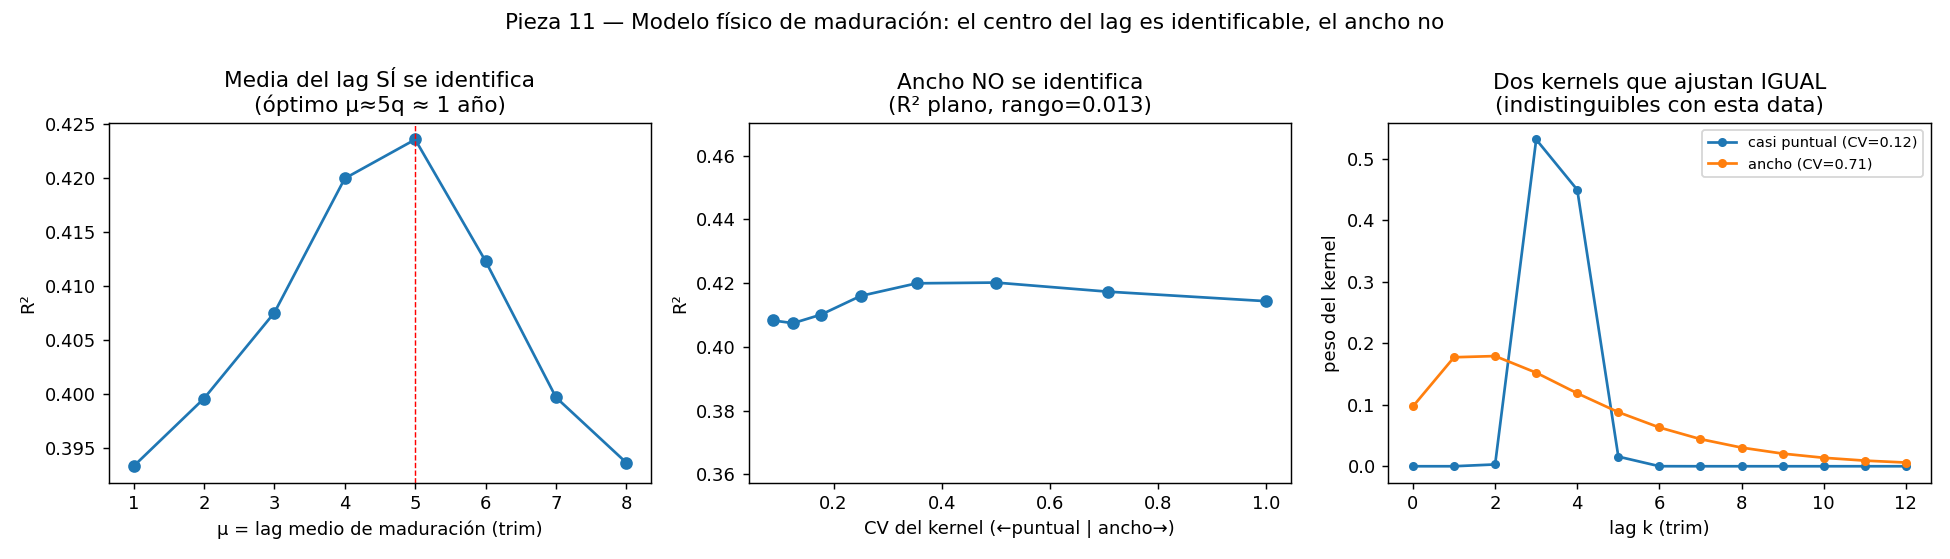
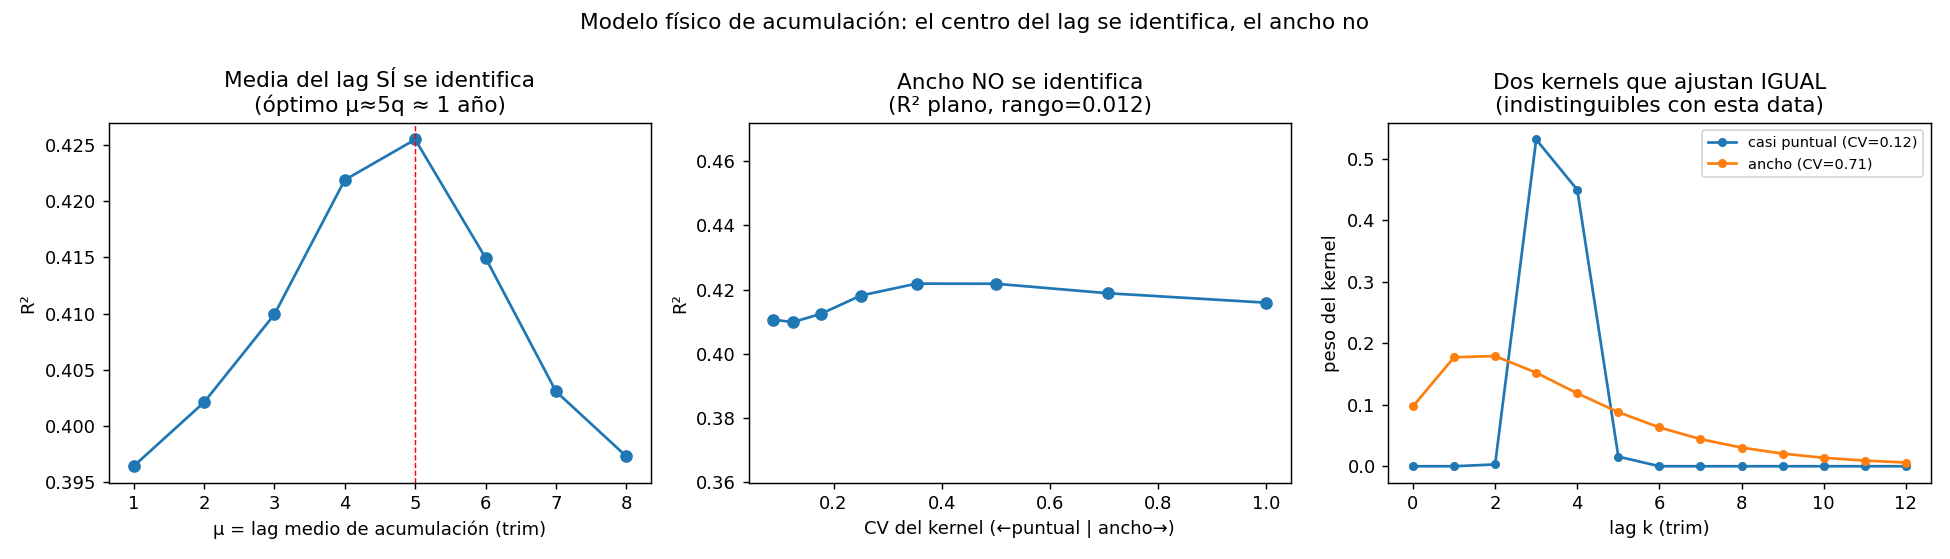
Pasar las figuras del paper a log-trim (consistencia con el texto) + figura del modelo propuesto
El texto dice "log trimestre a trimestre en todo el trabajo" y critica YoY, pero
las figuras usaban YoY (p7, p4) o QoQ simple (p11, p12) -- común a common.COLS=YoY.

- p7 (CCF, figura principal): YoY -> log-diff. Regenerada. Números honestos:
  rho(0) 0.6->0.5, valle -0.3->-0.2 en lag-4, co-movimiento 35%->24% (YoY
  inflaba ~2x, justo como el texto advierte). La firma y el lag ~1 año aguantan.
- p11 (modelo propuesto): QoQ -> log-diff. Regenerada. mu=5 (~1 año), ancho no
  identificable (rango R2~0.012). Reemplaza a la figura del VAR (la del método
  propuesto faltaba).
- Removida la frase de R2 de LV/FN (venía de p4, que corre sobre YoY).
- Texto actualizado a los números log-trim.

PENDIENTE (sigue en YoY via common.py): p9_pooled (mu_pob~4.9 [4.4;5.5], LOO
0.62) y p9_crisis_regime (placebo p=0.34). Son lag/secundarios (~robustos al
transform) pero conviene rehacerlos en log-trim. Raíz: common.COLS=YoY.

diff --git a/paper/main_es.tex b/paper/main_es.tex
@@ -122,8 +122,8 @@ vía la ecuación de Lyapunov, para ver si un modelo lineal sin mecanismo ya rep
 
 \paragraph{El patrón: un feedback retardado, no un antagonismo instantáneo.}
 La CCF \emph{oscila} en lugar de decaer: un pico contemporáneo dominante
-($\rho(0)\approx+0{,}6$) y un valle negativo (el mínimo de la CCF) en los rezagos 4--5 trimestres
-($\approx-0{,}3$), que vuelve a cero hacia el rezago 6 (Fig.~\ref{fig:ccf}). Un
+($\rho(0)\approx+0{,}5$) y un valle negativo (el mínimo de la CCF) en el rezago~4
+($\approx-0{,}2$), que vuelve a cero hacia el rezago 6 (Fig.~\ref{fig:ccf}). Un
 estudio de evento sobre las doce recesiones NBER (alineadas en el valle de la inversión)
 confirma el patrón: las ganancias giran primero y la brecha inversión--ganancias se acumula
 $\sim$1--1,5 años antes del valle ---el \emph{buildup} de sobreacumulación que precede a las
@@ -144,16 +144,17 @@ $\sim$1 año antes deprime las ganancias actuales). Robusto a excluir 2008/2020.
 
 \paragraph{El retardo de acumulación se identifica y es estable.}
 La evidencia central del retardo no es un único método sino la \emph{convergencia} de cuatro
-estimadores clásicos en $\approx$4 trimestres: el núcleo empírico, la regresión de rezagos
+estimadores clásicos en $\approx$4--5 trimestres: el núcleo empírico, la regresión de rezagos
 distribuidos, un $\mathrm{VAR}(p\!\ge\!4)$ y una estimación jerárquica agrupada
 ($\mu\approx4{,}7$--$4{,}9$). Esa estimación es estable entre transformaciones de diferencia
 (log trimestre a trimestre) y al \emph{leave-one-crisis-out} (rango de $0{,}62$ trimestres), de modo
 que no depende de ningún episodio. El agrupamiento jerárquico da un retardo poblacional
-$\mu_{\text{pob}}\approx4{,}9$ trimestres $[4{,}4;5{,}5]$, con la \emph{dispersión no resuelta}.
+$\mu_{\text{pob}}\approx4{,}9$ trimestres $[4{,}4;5{,}5]$, con la \emph{dispersión no resuelta}
+(Fig.~\ref{fig:model}).
 
 \paragraph{Lo que no puede identificarse.}
 El feedback explica solo $\sim$3\% de la varianza del crecimiento de las ganancias (contra
-$\sim$35\% del co-movimiento contemporáneo). De esa debilidad se siguen cuatro límites:
+$\sim$24\% del co-movimiento contemporáneo). De esa debilidad se siguen cuatro límites:
 \begin{itemize}
 \item \textbf{La dispersión del retardo no es identificable:} el perfil de verosimilitud en el
 ancho de la distribución es plano; los datos no distinguen un retardo genuinamente
@@ -162,8 +163,8 @@ ancho de la distribución es plano; los datos no distinguen un retardo genuiname
 encuentra el valle negativo con la misma frecuencia fuera de ellas ($p=0{,}34$). El mecanismo
 es \emph{estructural y permanente}, no una firma del giro del ciclo.
 \item \textbf{Equivalencia observacional con un modelo lineal:} la CCF teórica de un
-$\mathrm{VAR}(p\!\ge\!4)$ ajustado reproduce el valle negativo desde sus coeficientes
-solamente (Fig.~\ref{fig:var}). El modelo de acumulación es una \emph{reparametrización
+$\mathrm{VAR}(p\!\ge\!4)$ ajustado (vía la ecuación de Lyapunov) reproduce el valle negativo
+desde sus coeficientes solamente. El modelo de acumulación es una \emph{reparametrización
 interpretable} de ese contenido lineal, no un mecanismo separable de él con estos datos.
 \item \textbf{El término de sobreacumulación no se identifica por separado:} una descomposición
 OLS de $-k\,m$ sobre los datos reales da $\beta_m\approx+0{,}02$ ($t\approx0{,}15$, no
@@ -174,11 +175,15 @@ acumulación un canal causal separable del co-movimiento contemporáneo.
 
 \begin{figure}[t]
 \centering
-\includegraphics[width=0.52\linewidth]{p12_var_lyapunov_ccf.png}
-\caption{CCF teórica de un $\mathrm{VAR}(p)$ ajustado (vía Lyapunov) contra la CCF empírica.
-Para $p\ge4$ el modelo lineal ya reproduce el valle negativo de los rezagos 4--5 desde sus
-coeficientes: equivalencia observacional con el núcleo de retardo distribuido.}
-\label{fig:var}
+\includegraphics[width=\linewidth]{p11_physical_delay.png}
+\caption{El modelo físico de acumulación y su frontera de identificabilidad, sobre las crisis
+NBER (log trimestre a trimestre, sin 2008/2020). \emph{Izquierda:} el ajuste ($R^2$ del modelo)
+en función del retardo medio $\mu$ tiene un máximo nítido en $\mu\approx5$ trimestres ($\sim$1
+año) ---el \emph{centro} del retardo se identifica. \emph{Centro:} ese mismo ajuste es plano
+frente al ancho del núcleo (rango de $R^2\approx0{,}012$) ---el \emph{ancho} no se identifica. \emph{Derecha:} dos núcleos
+Gamma muy distintos (casi puntual vs ancho) ajustan los datos por igual. El $R^2$ es el del
+ajuste OLS del modelo al variar sus parámetros, no una validación de red.}
+\label{fig:model}
 \end{figure}
 
 \section{Discusión y conclusiones}

diff --git a/src/experiment/p11_physical_delay.py b/src/experiment/p11_physical_delay.py
@@ -41,8 +41,8 @@ H = 8                            # semiancho de ventana (trim)
 
 def qoq_data():
     raw = pd.read_csv(C.DATA, parse_dates=["DATE"]).set_index("DATE")
-    P = raw["PROFITS"].pct_change(1) * 100
-    I = raw["INVESTMENT"].pct_change(1) * 100
+    P = np.log(raw["PROFITS"]).diff() * 100
+    I = np.log(raw["INVESTMENT"]).diff() * 100
     d = pd.DataFrame({"P": P, "I": I}).dropna()
     return d.index, d["P"].to_numpy(), d["I"].to_numpy()
 
@@ -123,7 +123,7 @@ def main():
     fig, ax = plt.subplots(1, 3, figsize=(15, 4.3))
     ax[0].plot(mus, r2_mu, "o-"); ax[0].axvline(mu_best, color="r", ls="--", lw=0.8)
     ax[0].set_title(f"Media del lag SÍ se identifica\n(óptimo μ≈{mu_best}q ≈ 1 año)")
-    ax[0].set_xlabel("μ = lag medio de maduración (trim)"); ax[0].set_ylabel("R²")
+    ax[0].set_xlabel("μ = lag medio de acumulación (trim)"); ax[0].set_ylabel("R²")
 
     ax[1].plot([1/np.sqrt(s) for s in shapes], r2_sh, "o-")
     ax[1].set_title(f"Ancho NO se identifica\n(R² plano, rango={span:.3f})")
@@ -135,7 +135,7 @@ def main():
         ax[2].plot(np.arange(len(w)), w, "o-", label=lbl, ms=4)
     ax[2].set_title("Dos kernels que ajustan IGUAL\n(indistinguibles con esta data)")
     ax[2].set_xlabel("lag k (trim)"); ax[2].set_ylabel("peso del kernel"); ax[2].legend(fontsize=8)
-    fig.suptitle("Pieza 11 — Modelo físico de maduración: el centro del lag es identificable, el ancho no", fontsize=12)
+    fig.suptitle("Modelo físico de acumulación: el centro del lag se identifica, el ancho no", fontsize=12)
     fig.tight_layout(); fig.savefig(C.OUTDIR / "p11_physical_delay.png", dpi=130); plt.close(fig)
     print(f"✓ figura: {C.OUTDIR}/p11_physical_delay.png")
     print("\nVEREDICTO: modelo físico (cadena de maduración) válido y diferenciable; el lag de "

diff --git a/src/experiment/p7_overaccumulation.py b/src/experiment/p7_overaccumulation.py
@@ -20,6 +20,7 @@ import matplotlib
 matplotlib.use("Agg")
 import matplotlib.pyplot as plt
 import numpy as np
+import pandas as pd
 
 from src.experiment import common as C
 
@@ -35,10 +36,12 @@ def ccf(p, i, kmax=KMAX):
 
 
 def main():
-    df = C.load()
-    p, i = df["PROFITS_YOY"].to_numpy(), df["INVEST_YOY"].to_numpy()
+    raw = pd.read_csv(C.DATA, parse_dates=["DATE"]).set_index("DATE")
+    g = pd.DataFrame({"P": np.log(raw["PROFITS"]).diff() * 100,
+                      "I": np.log(raw["INVESTMENT"]).diff() * 100}).dropna()
+    p, i = g["P"].to_numpy(), g["I"].to_numpy()
     endo = np.array([not ((dt.date(2007, 1, 1) <= d.date() <= dt.date(2010, 12, 31)) or
-                          (dt.date(2019, 1, 1) <= d.date() <= dt.date(2021, 12, 31))) for d in df.index])
+                          (dt.date(2019, 1, 1) <= d.date() <= dt.date(2021, 12, 31))) for d in g.index])
     ks, c_all = ccf(p, i)
     _, c_endo = ccf(p[endo], i[endo])
 
